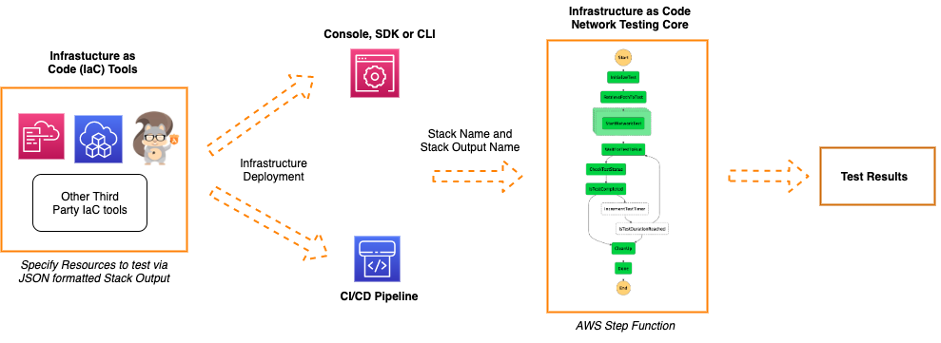
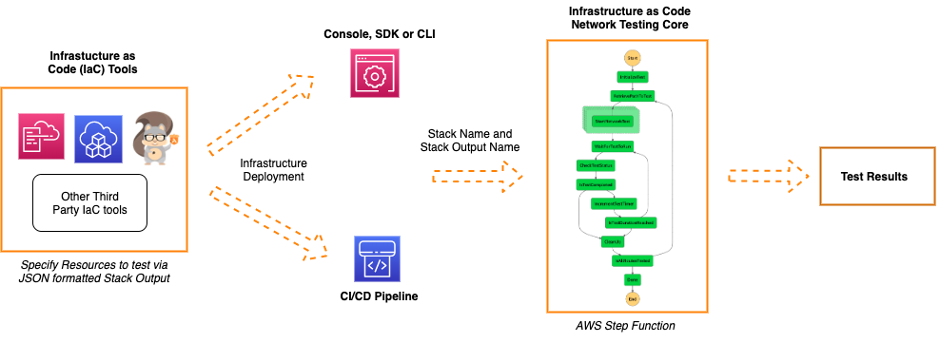
updated readme

Changed region(s): [[0.5855, 0.1458, 0.7088, 0.9038]]

diff --git a/README.md b/README.md
@@ -1,6 +1,6 @@
-# Infrastructure as Code Network Tester
+# Infrastructure as Code Network Tester (IaC Network Tester)
 
-This package provides a a tool that helps you run network testing against a set of source and destination resources to ensure configuration matches intent.
+This package provides a a tool that helps you run connectivity testing against a set of source and destination resources to ensure configuration matches intent.
 
 For infrastructure deployed via AWS Console, SDK or CLI, the tester can be run post infrastructure deployment by specifying the stack name and the logical identifier of the stack output.
 
@@ -10,31 +10,29 @@ For infrastructure is deployed via a CI/CD pipeline, the tester can be integrate
   <img src="images/hl_architecture.png" alt="High Level Architecture Diagram"/>
 </p>
 
-The tester will execute the networking testing by running a step function that carries out the following steps:
+## What does the state machine look like?
+
+The state machine is shown in the figure below. The high level logic implemented on the state machine to carry out the test include:
 
 - Identify the routes to be tested by retrieving the JSON formatted output from the stack output
-- Start the network test by invoking VPC Reachability Analyzer for each of the routes
+- Start the network test by invoking VPC Reachability Analyzer concurrently for the routes
 - Wait for the test to run and retrieve the test results
 - Clean up the VPC Reachability Analyzer resources used to carry out the test
+- Repeat the process from Step 2 if more than five routes are to be tested (the tool tests in batches of 5 due to the quota for concurrent analyses for VPC Reachability Analyzer)
 
-The output from the state machine indicates the results of the test, indicating routes that are reachable and unreachable. For existing deployments this can be used to test or diagnose the configuration of deployed resources. For infrastructure deployed via CI/CD pipeline, this result can be used to ensure the configuration matches intent and if not fail the pipeline and prevent deploying into production.
+<p align="center">
+  <img src="images/IaCStateMachine.png" alt="IaC Network Tester State Machine"/>
+</p>
 
-## Prerequisites
+## How to deploy the state machine
 
-Before you can use IaC Network Tester, you must:
+IaC Network Tester is a SAM application with the lambda functions developed in Python. To deploy the SAM application you can use AWS CloudShell (which comes with AWS CLI, SAM CLI and Python pre-installed). You can also use any other CLI tool but you will need to install the dependencies. See below for instructions
 
 - Install Python and its package manager, pip, if they are not already installed. To download and install the latest version of Python, [visit the Python website](https://www.python.org/).
+
 - Install the latest version of the AWS CLI on your Linux, macOS, Windows, or Unix computer. You can find instructions [here](https://docs.aws.amazon.com/cli/latest/userguide/installing.html).
 
-To get started with the IaC Network tester, use the SAM CLI. SAM CLI provides a Lambda-like execution environment that lets you locally build, test, debug, and deploy applications defined by SAM templates.
-
 - [Install SAM CLI](https://docs.aws.amazon.com/serverless-application-model/latest/developerguide/serverless-sam-cli-install.html)
-
-## Using the IaC Network Tester
-
-There are 2 ways to run the tester. You can run it maually against a specific CloudFormation template. The steps below guide you through this process.
-
-### Step 1.1
 
 Deploy the IaC Network Tester application on your AWS account:
 
@@ -43,21 +41,15 @@ sam build
 sam deploy --guided
 ```
 
-While running the `sam deploy -—guided` command, specify the `<stack name>` for example `iac-network-tester-app` and for other prompts, select the default by pressing `Enter`.
+## How to do I use IaC Network Tester for my Infrastructure as Code Template
 
-Note the Amazon Resource Name (ARN) of the IaC Network Tester state machine returned as the value with the key `IaCNetworkTesterStateMachineArn`.
-
-### Step 1.2
-
-Ensure the format of the output of your CloudFormation template:
-
-The key addition to the template to enable the use of IaC Network Tester is the template output with the logical identifier `NetworkReachabilityTestPaths` as shown below. This is a JSON formatted array with each item on the array containing the following keys:
+The IaC Network Tester can be used for infrastructure deployed directly via the AWS Console, SDK or CLI. It can also be used for infrastructure deployed via a CI/CD Pipeline. To use the tool for your IaC tempalte, one of the OUTPUTS from the stack must be a JSON formatted array with each item on the array containing the following keys:
 
 - **Source** - The source resource where the traffic will originate
 - **Destination** - The destination resource where the traffic will terminate
 - **RouteTag** - An identifier for the source and destination route
 
-More routes can be added following the same pattern however the default for the maximum number of routes that can be analysed concurrently is 6 (can be adjusted using the quota `Reachability Analyzer Concurrent Analyses`).
+See sample JSON formatted array below. More routes can be added following the same pattern.
 
 ```yaml
 Outputs:
@@ -72,14 +64,11 @@ Outputs:
       ]
 ```
 
-### Step 1.3
+For a detailed walkthrough of how the tool can be used on a sample template, refer to this [blog post](https://aws.amazon.com/blogs/aws/)
 
-Run the IaC Network Tester state machine by starting a new execution using the command below. The `<state_machine_arn>` parameter is the value from Step 1 above. The input to the state machine consists of:
+## How to execute the state machine
 
-- **stackName** - the name of the CloudFormation stack to test
-- **routeToTestOutputKey** - the output key of the CloudFormation stack that contains the JSON formatted string for the route to test
-- **analysisDuration** - the duration in seconds which specifies the time to wait for the VPC Reachability Analysis to run after initiating the analysis.
-- **analysisWaitCount** - the number of times to wait for the analysis to run if after the `analysisDuration` the test is still running. Each wait is the duration specified in `analysisDuration`.
+Run the IaC Network Tester state machine by starting a new execution using the command below. The `<state_machine_arn>` parameter is the arn of the IaC Network Tester State Machine.
 
 ```bash
 aws stepfunctions start-execution \
@@ -87,66 +76,18 @@ aws stepfunctions start-execution \
 --input "{\"stackName\": \"<sample_stack_name>\", \"routeToTestOutputKey\": \"<route_to_test_output_key>\", \"analysisDuration\": 15, \"analysisWaitCount\": 3}"
 ```
 
-Note the execution arn returned after running the command above. The output from the state machine contains the details of the test result and can be retrieved by running the command below.
+- **stackName** - the name of the CloudFormation stack to test
+- **routeToTestOutputKey** - the output key of the CloudFormation stack that contains the JSON formatted string for the route to test
+- **analysisDuration** - the duration in seconds which specifies the time to wait for the VPC Reachability Analysis to run after initiating the analysis.
+- **analysisWaitCount** - the number of times to wait for the analysis to run if after the `analysisDuration` the test is still running. Each wait is the duration specified in `analysisDuration`.
 
-```bash
-aws stepfunctions describe-execution \
---execution-arn "<execution_arn>"
-```
+## What results can I expect from IaC Network Tester?
 
-The output is a JSON formatted string that shows the tests that succeeded, are running (if the analysis did not complete within the configured time) or failed. For each route tested, the result provide the route identification from the cloudformation template which includes: `Source`, `Destination` and `RouteTag`.
+A sample output from the IaC Network Tester state machine is shown below. It is a JSON formatted string that shows the tests that succeeded, timed out (if the analysis did not complete within the configured time) or failed. For each route tested, the results show the Source, Destination and the RouteTag which were specified in the input. Apart from these, additional parameters such as NetworkInsightsPathId, NetworkInsightsAnalysisId, are identifiers of internal analysis objects created. NetworkPathFound and Explanations are details from the VPC Reachability Analysis of each route. NetworkPathFound indicates if the route is reachable and if not the Explanations field provides details of why the route is not reachable
 
-The other set of details: `NetworkInsightsPathId`, `NetworkInsightsAnalysisId`, `NetworkPathFound` and `Explanations` are details from the VPC Reachability Analysis of each route. `NetworkPathFound` indicates if the route is reachable and if not the `Explanations` field provides details of why the route is not reachable.
-
-## Integrating the IaC Infrastructure Tester with a CI/CD Pipeline
-
-You can, alternatively, integrate the tool in your pipeline. The steps below configure an example pipeline on AWS Code Pipeline that use an S3 source as a trigger.
-
-### Step 2.1
-
-Deploy the IaC Network Tester application on your AWS account. Follow the instruction in Step 1 of the section above to deploy the IaC Network Tester application on your AWS account.
-
-### Step 2.2
-
-You can deploy the CloudFormation template for the sample CI/CD pipeline. The sample pipeline templates is located in the folder `sample_resources` within the repository. The `sample-pipeline.yml` will deploy a CI/CD pipeline using AWS CodePipeline which will be used as the pipeline to deploy the sample infrastructure defined in `sample-stack.yml`. The key addition to the CI/CD pipeline is a phase that executes network testing post deployment of the infrastructure in a test environment.
-
-Create the sample pipeline by deploying the CloudFormation template using the following example commands below, replacing:
-
-- `<myEmailAdd>` - used for pipeline SNS notification messages
-- `<IaCNetworkStateMachineArn>` - referencing the IaC Network Tester ARN
-- `<routeToTestOutputKey>` - a reference to the key holding the JSON output of the CloudFormation template being tested, p.e., NetworkReachabilityTestPaths
-- `<analysisDuration>` - timeout setting
-- `<analysisWaitCount>` - used for the wait between poling for the analysis result.
-
-```bash
-cd sample_resources
-aws cloudformation create-stack --stack-name iac-network-tester-sample-pipeline \
---template-body file:///$PWD/sample-pipeline.yml \
---parameters ParameterKey=Email,ParameterValue=<myEmailAdd> \
-ParameterKey=IaCNetworkTesterStateMachineArn,ParameterValue=<IaCNetworkStateMachineArn> \
-ParameterKey=IaCNetworkTesterRouteToTestOuputKey,ParameterValue=<routeToTestOutputKey> \
-ParameterKey=IaCNetworkTesterAnalysisDuration,ParameterValue=<analysisDuration> \
-ParameterKey=IaCNetworkTesterAnalysisWaitCount,ParameterValue=<analysisWaitCount> \
---capabilities CAPABILITY_IAM CAPABILITY_NAMED_IAM
-```
-
-### Step 2.3
-
-Trigger the pipeline which will invoke the IaC Network Tester state machine during the network testing stage.
-
-## Clean Up
-
-Leaving resources that you don’t need running on your AWS account will incur changes. Follow the instructions below to clean up the resources created in this post and avoid incurring further charges.
-
-- Delete the CodePipeline Artifact Store S3 Bucket (`iac-network-tester-sample-pip-artifactstorebucket-XXXXXXXXXXXXX`) and Source S3 Bucket (`<AccountID>-iac-nt-bucket`) via the console by emptying the bucket and then deleting the bucket.
-- Run the following CLI commands to delete the CloudFormation stacks. Ensure each command successfully deletes the resources before proceeding to the next
-
-```bash
-aws cloudformation delete-stack --stack-name iac-network-tester-sample-stack
-aws cloudformation delete-stack --stack-name Prod-IaCNetworkTesterEnv
-aws cloudformation delete-stack --stack-name iac-network-tester-sample-pipeline
-aws cloudformation delete-stack --stack-name iac-network-tester-app
-```
+<p align="center">
+  <img src="images/Fig15v2.png" alt="IaC Network Tester Output"/>
+</p>
 
 ## Security
 
